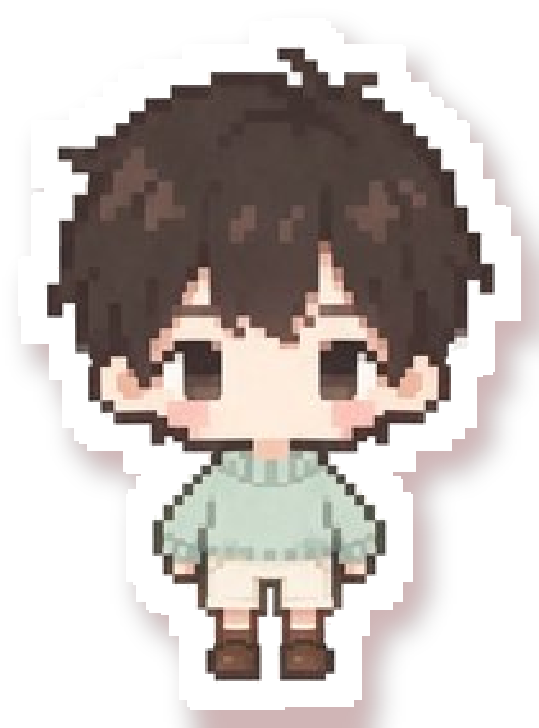
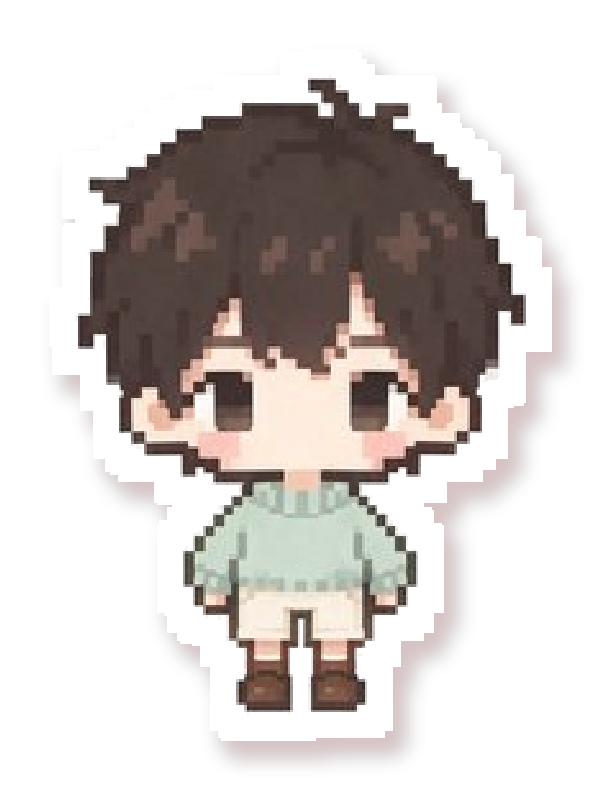
主界面

diff --git a/css/style.css b/css/style.css
@@ -4078,15 +4078,15 @@ body { font-synthesis: none; }
 /* 女生：站在「大学四年」右侧（整只落在第一行的高度带里） */
 .vn-mascot--girl {
   left: 36.5%;
-  bottom: 178px;
-  height: 190px;
+  bottom: 166px;
+  height: 205px;
   transform: rotate(-15deg);
 }
 /* 男生：站在「没问题！」右侧（落在第二行的高度带里） */
 .vn-mascot--boy {
-  left: 44.3%;
-  bottom: 34px;
-  height: 150px;
+  left: 44.0%;
+  bottom: 30px;
+  height: 152px;
   transform: rotate(13deg);
 }
 /* 悬停：摆正 + 放大 + 上浮，回弹曲线让动作更明显 */
@@ -4238,9 +4238,34 @@ body { font-synthesis: none; }
 }
 
 
-/* 「果然」微微向右倾斜 */
+/* 「果然」：略大一号、微微右倾、整体往左挪一点 */
 .vn-logo__tilt {
   display: inline-block;
-  transform: rotate(4deg);
+  font-size: 1.08em;
+  line-height: 0.95;
+  transform: translateX(-7px) rotate(5deg);
   transform-origin: 50% 80%;
+}
+
+
+/* 标题两行 + 副标题：一层很淡的投影，让字从白卡上浮起来 */
+.vn-logo {
+  text-shadow: 0 4px 12px rgba(20, 16, 15, 0.26), 0 1px 2px rgba(20, 16, 15, 0.14);
+}
+.vn-logo__hl {
+  /* 白描边在前、投影放最后，投影才会落在描边外圈之下 */
+  text-shadow:
+     0.062em 0 0 #fff, -0.062em 0 0 #fff,
+     0 0.062em 0 #fff, 0 -0.062em 0 #fff,
+     0.044em 0.044em 0 #fff, -0.044em 0.044em 0 #fff,
+     0.044em -0.044em 0 #fff, -0.044em -0.044em 0 #fff,
+     0 4px 12px rgba(20, 16, 15, 0.26);
+}
+.vn-logo__sub {
+  text-shadow:
+     0.085em 0 0 #fff, -0.085em 0 0 #fff,
+     0 0.085em 0 #fff, 0 -0.085em 0 #fff,
+     0.06em 0.06em 0 #fff, -0.06em 0.06em 0 #fff,
+     0.06em -0.06em 0 #fff, -0.06em -0.06em 0 #fff,
+     0 3px 9px rgba(20, 16, 15, 0.24);
 }

diff --git a/docs/DESIGN.md b/docs/DESIGN.md
@@ -57,7 +57,8 @@
   - **标题字体** **汉仪唐美人 W**（`--font-display`，手写行书）：弹窗标题、表单标题、抽屉标题、
     创建角色大标题、结局名、事件标签，以及徽记 SCUSim（角色信息姓名、创建页表单小标题用正文字体）
 
-  - 第二行的「果然」单独包一层 `.vn-logo__tilt`：`rotate(4deg)`、`transform-origin: 50% 80%`，向右微倾
+  - 第二行的「果然」单独包一层 `.vn-logo__tilt`：`font-size: 1.08em`、`translateX(-7px) rotate(5deg)`、`transform-origin: 50% 80%`：
+  比后面的「有」略大、整体左移贴住荧光笔色带起点、向右微倾
 - 第一行「我的大学四年」里，**「大学四年」比「我的」大 1.14 倍**（`.vn-logo__line-big`），
   字号差制造节奏，但共用同一基线
 - 标题里的「有 / 没问题」套 `.vn-logo__hl`（「我的大学四年」不带描边）：`-webkit-text-stroke: .055em #fff` + `paint-order: stroke fill`
@@ -187,6 +188,12 @@
 后者的旧快照会把 `reduceMotion` / 音量写回默认值（表现为「关掉动效保存后又自己打开」）。
 修正：storage 里用一条 Promise 队列串行化，并且 UI 侧先 `onSave` 再 `onChangeAppearance`。
 回归测试 `tests/verify_settings.mjs`。
+
+### 标题的淡投影
+
+主标题两行与副标题都加了一层 `text-shadow: 0 4px 12px rgba(20,16,15,.26), 0 1px 2px rgba(20,16,15,.14)`，
+让黑字/红字从白卡上轻轻浮起。带白描边的字（有 / 没问题 / 副标题）把投影写在 shadow 列表**最后一项**，
+这样投影落在白描边外圈之下，不会把描边染灰。
 
 ### 弹窗尺寸
 
